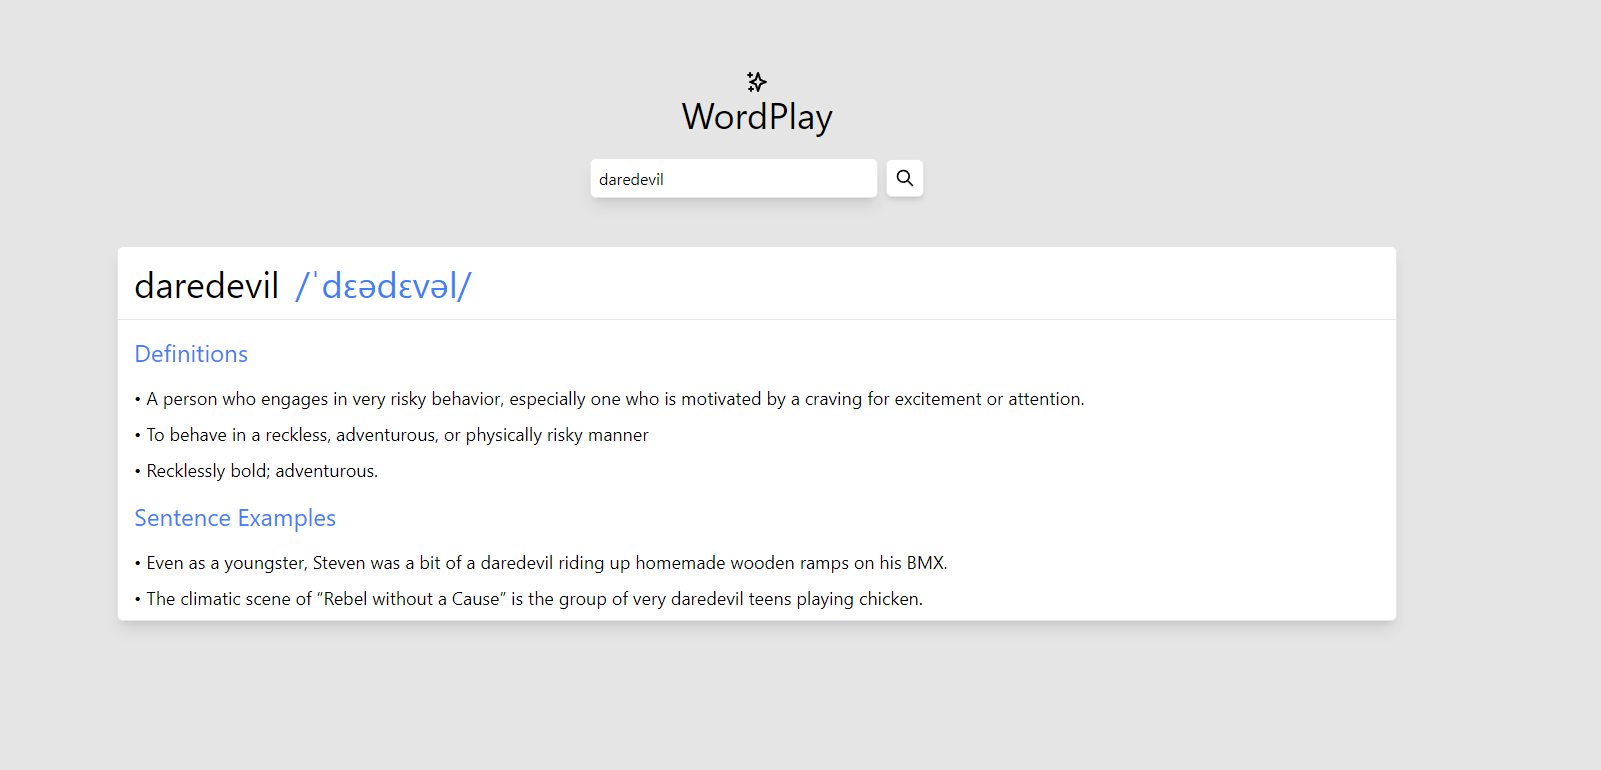
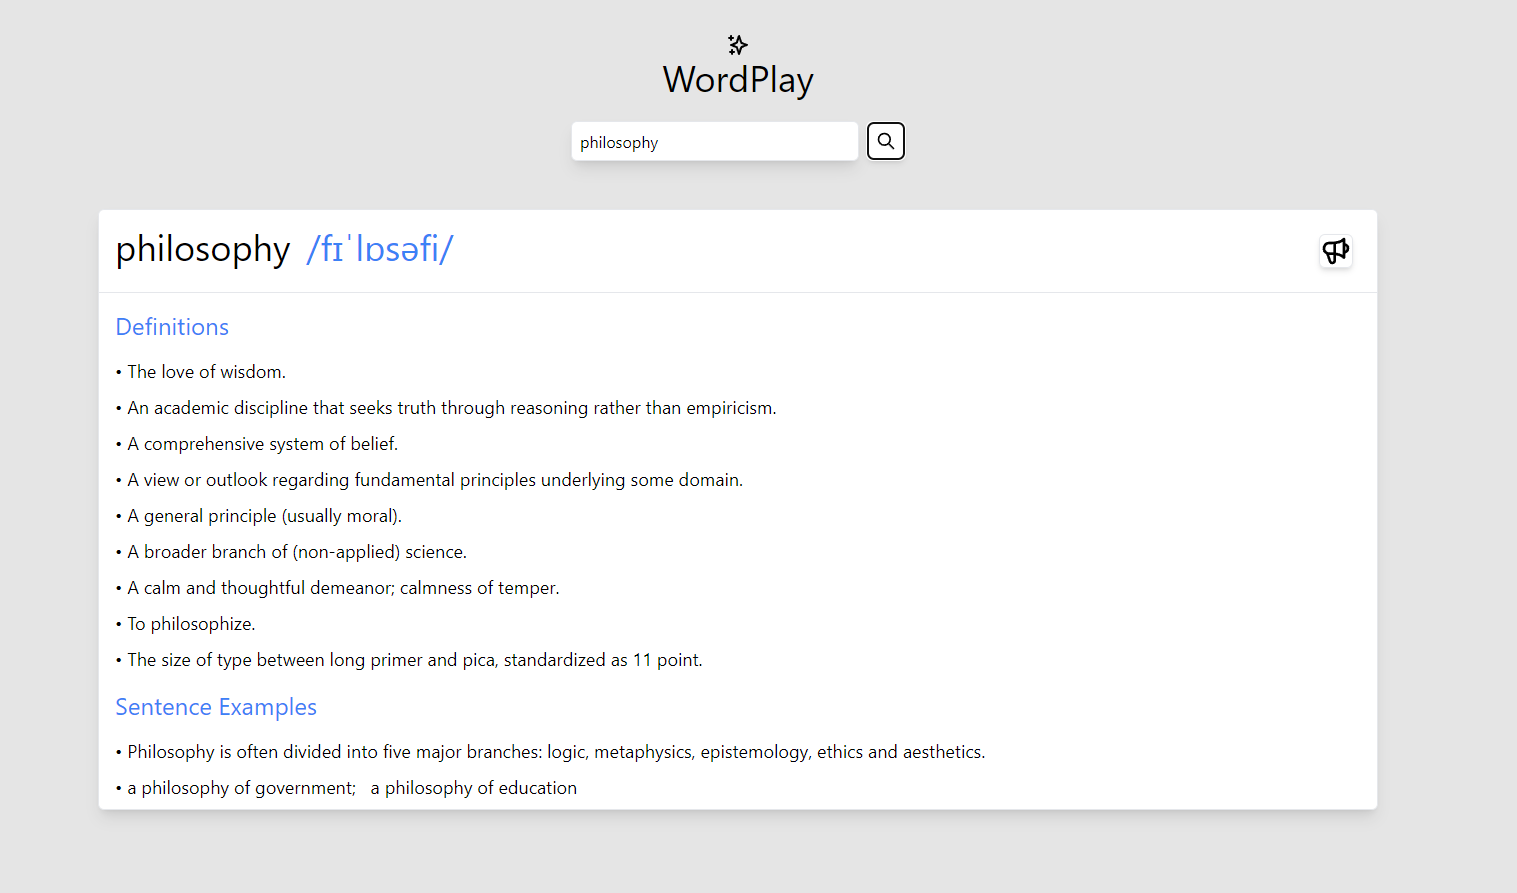
Update #2

Changed region(s): [[0.062, 0.0312, 0.9295, 0.9039]]

diff --git a/src/App.js b/src/App.js
@@ -173,9 +173,9 @@ function App() {
           <div className = "max-h-fit md:max-h-fit bg-white w-11/12 md:w-8/12 mt-8 md:mt-12 border border-1 shadow-lg rounded-md mb-12">
             <div className="m-4 flex flex-row justify-between">
 
-              <div className="flex flex-row justify-items-center">
-                <h1 className="text-xl md:text-4xl">{search}</h1>
-                <h1 className="ml-4 text-xl md:text-4xl text-blue-500">{phonetic}</h1>
+              <div className="flex flex-row items-center">
+                <h1 className="text-2xl md:text-4xl">{search}</h1>
+                <h1 className="ml-4 text-2xl md:text-4xl text-blue-500">{phonetic}</h1>
               </div>
 
               {audioUrl &&

diff --git a/src/AudioPlayer.js b/src/AudioPlayer.js
@@ -5,7 +5,9 @@ const AudioPlayer = ({url}) =>{
   );
 
   const start = () => {
+    if(url){
       audio.play();
+    }
   };
 
   return(
